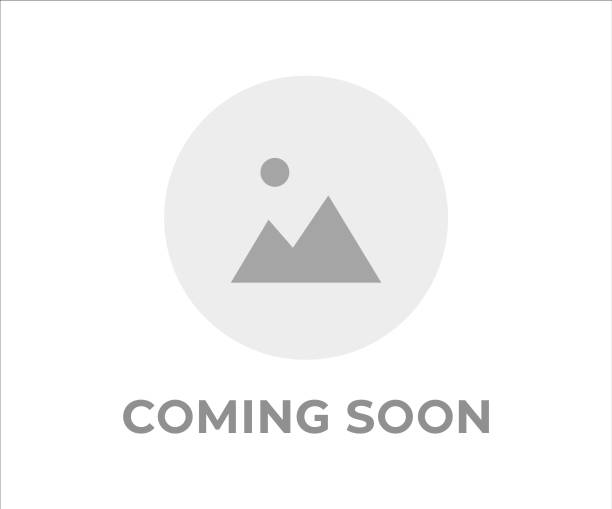
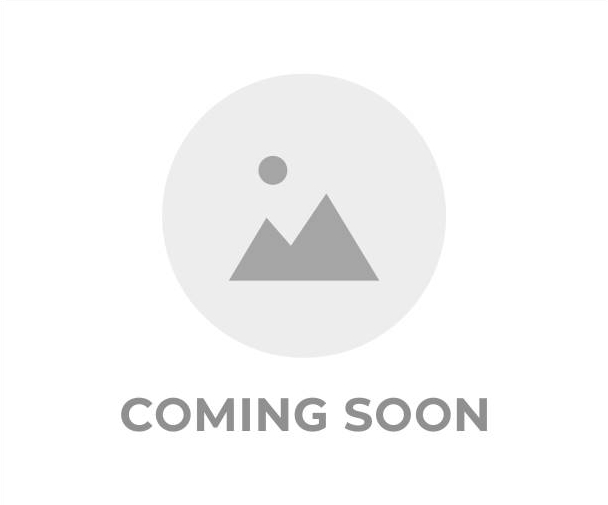
feat: small layout changes

diff --git a/src/main/frontend/src/components/ProductDetailsComponent.tsx b/src/main/frontend/src/components/ProductDetailsComponent.tsx
@@ -47,16 +47,23 @@ const ProductDetailsComponent: React.FC = () => {
     return (
         <div className="border-none">
             <div className="grid">
-                <div className="col-12 md:col-6 flex justify-content-center">
-                    <img
-                        src={product.imageUrl || DefaultImage}
-                        alt={product.name}
-                        className="shadow-2 border-round w-full"
-                        style={{ maxWidth: '500px', objectFit: 'cover' }}
-                        onError={(e) => {
-                            (e.currentTarget.src = DefaultImage);
-                        }}
-                    />
+                <div className="col-12 md:col-6 flex justify-content-center align-items-center">
+                    <div className="inline-block relative shadow-2 border-round overflow-hidden">
+                        <img
+                            src={product.imageUrl || DefaultImage}
+                            alt={product.name}
+                            className="block h-auto"
+                            style={{
+                                maxWidth: '100%',
+                                maxHeight: '500px',
+                                width: 'auto',
+                                objectFit: 'contain'
+                            }}
+                            onError={(e) => {
+                                (e.currentTarget.src = DefaultImage);
+                            }}
+                        />
+                    </div>
                 </div>
 
                 <div className="col-12 md:col-6 px-4 md:text-right md:flex xl:text-right xl:flex flex-column align-items-end">

diff --git a/src/main/frontend/src/components/ProductListComponent.tsx b/src/main/frontend/src/components/ProductListComponent.tsx
@@ -36,7 +36,7 @@ const ProductListComponent: React.FC<ProductListComponentProps> = (props) => {
     const { updateCartItem } = useCart();
     const [searchTerm, setSearchTerm] = useState(props.filters.name || '');
     const navigate = useNavigate();
-    const [layout, setLayout] = useState<'list' | 'grid'>('grid');
+    const [layout, setLayout] = useState<'list' | 'grid'>('list');
 
     useEffect(() => {
         setSearchTerm(props.filters.name || '');
@@ -239,12 +239,10 @@ const ProductListComponent: React.FC<ProductListComponentProps> = (props) => {
                 <div className="p-4 card border-round flex flex-column h-full shadow-5">
                     {/* Image Section */}
                     <div className="flex flex-column align-items-center gap-3 py-5">
-                        <img
-                            className="w-9 shadow-2 border-round"
+                        <img className="w-10 sm:w-16rem md:w-20rem xl:w-20rem shadow-2 block xl:block mx-auto border-round"
                             src={product.imageUrl || DefaultImage}
                             alt={product.name}
                             onError={(e) => { (e.currentTarget.src = DefaultImage); }}
-                            style={{ objectFit: 'cover', width: '300px', height: '300px' }}
                         />
                         <div className="text-2xl font-bold text-900 cursor-pointer hover:underline text-center"
                              onClick={() => navigate(`/product/${product.id}`)}>